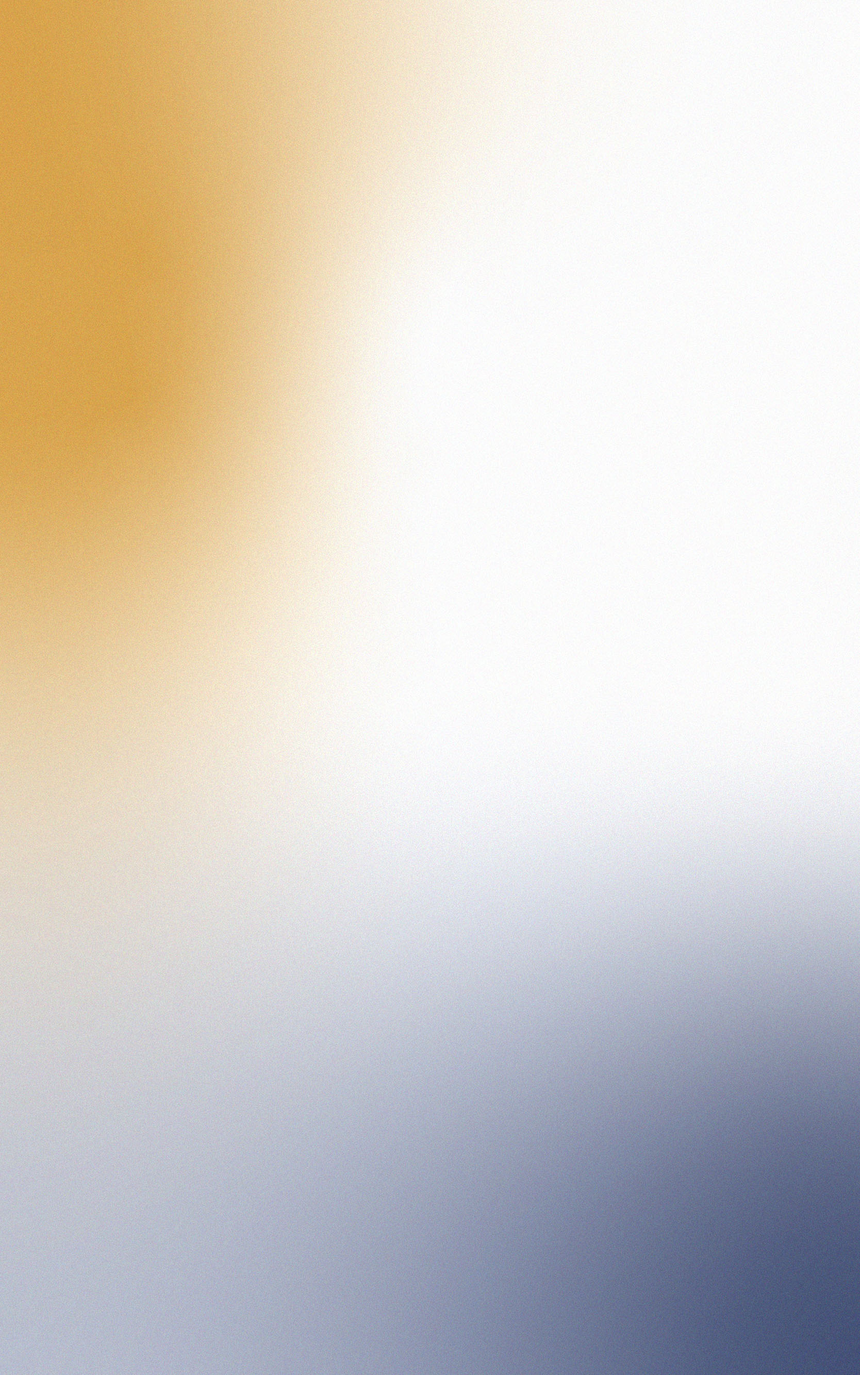
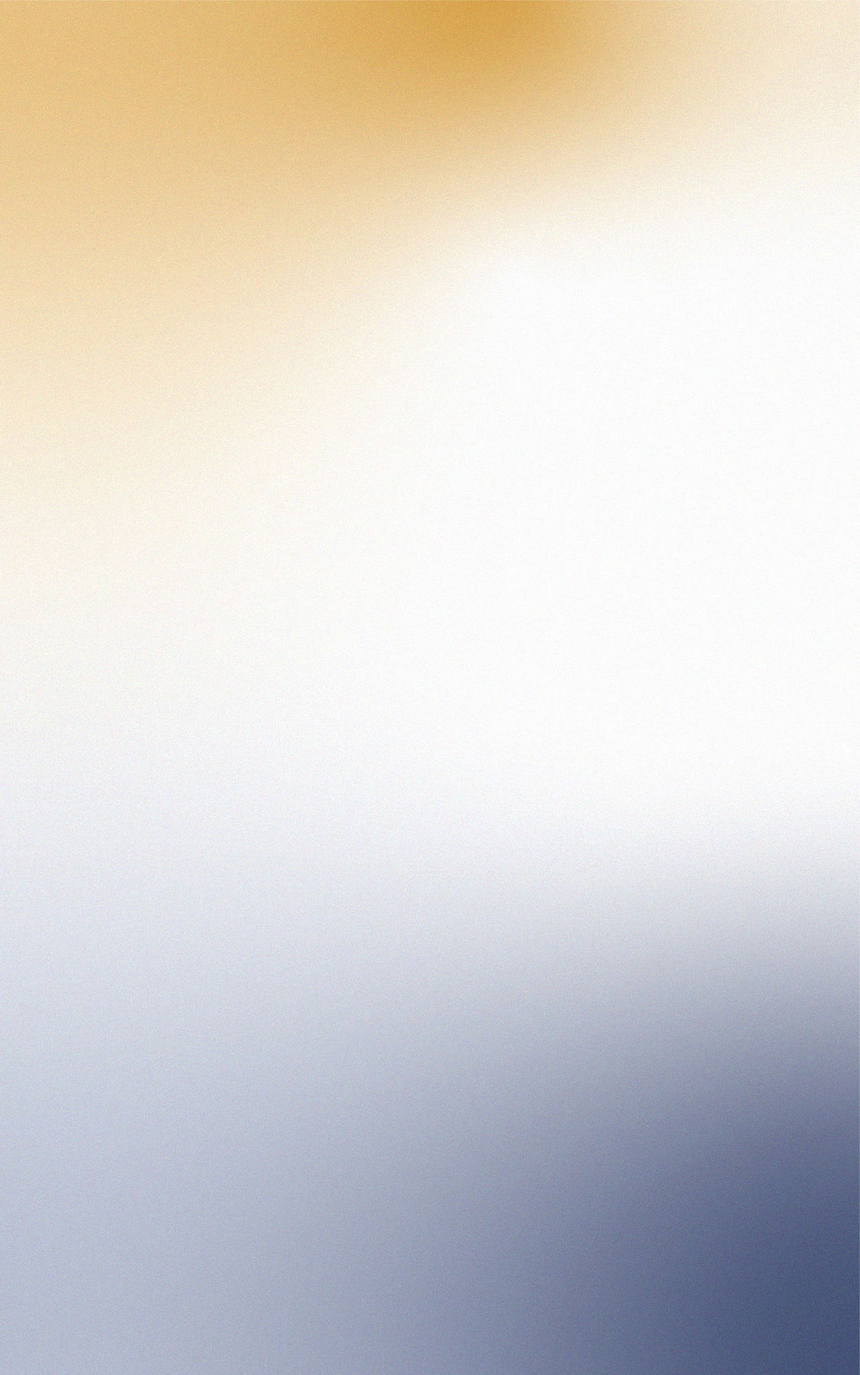
mobile

diff --git a/css/index.css b/css/index.css
@@ -192,6 +192,13 @@ a:hover {
 
   body {
     background-image: url("./assets/bg-home-mobile.jpg");
+  background-repeat: no-repeat;
+  background-attachment: fixed;
+  background-size: cover;
+  height: 100vh;
+  width: 100%;
+  letter-spacing: 0.2px;
+  color: #000000;
   }
 
   .nav {
